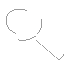
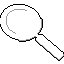
Improved cursors

diff --git a/Scripts/Controller.cs b/Scripts/Controller.cs
@@ -32,7 +32,6 @@ public class Controller : MonoBehaviour {
     if (GD.status != GameStatus.NormalGamePlay && GD.status != GameStatus.Cutscene) return;
 
 
-    cursorTime += Time.deltaTime;
     HandleCursor();
 
 
@@ -368,11 +367,13 @@ public class Controller : MonoBehaviour {
   private Texture2D oldCursor = null;
   public Texture2D[] Cursors;
   float cursorTime = 0;
+  float cursorTimeSpeed = 1;
+  private Vector2 middle = new Vector2(32, 32);
 
   void HandleCursor() {
     if (GD.status != GameStatus.NormalGamePlay) {
       if (oldCursor != Cursors[(int)CursorTypes.Wait]) {
-        Cursor.SetCursor(Cursors[(int)CursorTypes.Wait], new Vector2(Cursors[(int)CursorTypes.Wait].width / 2, Cursors[(int)CursorTypes.Wait].height / 2), CursorMode.Auto);
+        Cursor.SetCursor(Cursors[(int)CursorTypes.Wait], middle, CursorMode.Auto);
         oldCursor = Cursors[(int)CursorTypes.Wait];
       }
       return;
@@ -380,37 +381,20 @@ public class Controller : MonoBehaviour {
 
     if (forcedCursor == CursorTypes.Item) return;
 
+    cursorTime += Time.deltaTime * cursorTimeSpeed;
+    if (cursorTime > 1.5f) {
+      cursorTime = 0;
+      cursorTimeSpeed = Random.Range(.9f, 1.5f);
+    }
+
+
     if (forcedCursor == CursorTypes.None) {
-      if (0 <= cursorTime && cursorTime <= .5f) {
-        if (oldCursor != Cursors[0]) {
-          Cursor.SetCursor(Cursors[0], new Vector2(Cursors[0].width / 2, Cursors[0].height / 2), CursorMode.Auto);
-          oldCursor = Cursors[0];
-        }
-      }
-      else if (.5f < cursorTime && cursorTime <= .75f) {
-        if (oldCursor != Cursors[1]) {
-          Cursor.SetCursor(Cursors[1], new Vector2(Cursors[1].width / 2, Cursors[1].height / 2), CursorMode.Auto);
-          oldCursor = Cursors[1];
-        }
-      }
-      else if (.75f < cursorTime && cursorTime <= .9f) {
-        if (oldCursor != Cursors[2]) {
-          Cursor.SetCursor(Cursors[2], new Vector2(Cursors[2].width / 2, Cursors[2].height / 2), CursorMode.Auto);
-          oldCursor = Cursors[2];
-        }
-      }
-      else if (.9f < cursorTime && cursorTime <= 1.05f) {
-        if (oldCursor != Cursors[1]) {
-          Cursor.SetCursor(Cursors[1], new Vector2(Cursors[1].width / 2, Cursors[1].height / 2), CursorMode.Auto);
-          oldCursor = Cursors[1];
-        }
-      }
-      else {
-        cursorTime = 0;
-        if (oldCursor != Cursors[0]) {
-          Cursor.SetCursor(Cursors[0], new Vector2(Cursors[0].width / 2, Cursors[0].height / 2), CursorMode.Auto);
-          oldCursor = Cursors[0];
-        }
+      float val = Mathf.Cos(cursorTime * 2.1f + 4.7f) * 4.9f;
+      val = Mathf.Clamp(val, 0, 4);
+      int c = 4 - Mathf.RoundToInt(val);
+      if (oldCursor != Cursors[c]) {
+        Cursor.SetCursor(Cursors[c], middle, CursorMode.Auto);
+        oldCursor = Cursors[c];
       }
       return;
     }

diff --git a/Scripts/Enums.cs b/Scripts/Enums.cs
@@ -12,7 +12,7 @@ public enum Dir { F=0, B=2, L=1, R=3, None = 4 };
 /// <summary>
 /// Used to specify which cursor to use
 /// </summary>
-public enum CursorTypes {  None=0, Examine=3, Wait=4, Open=5, Close=6, PickUp=7, Use=8, Item=9 };
+public enum CursorTypes {  None=0, Examine=9, Wait=10, Open=5, Close=6, PickUp=7, Use=8, Item=11 };
 
 
 /// <summary>
